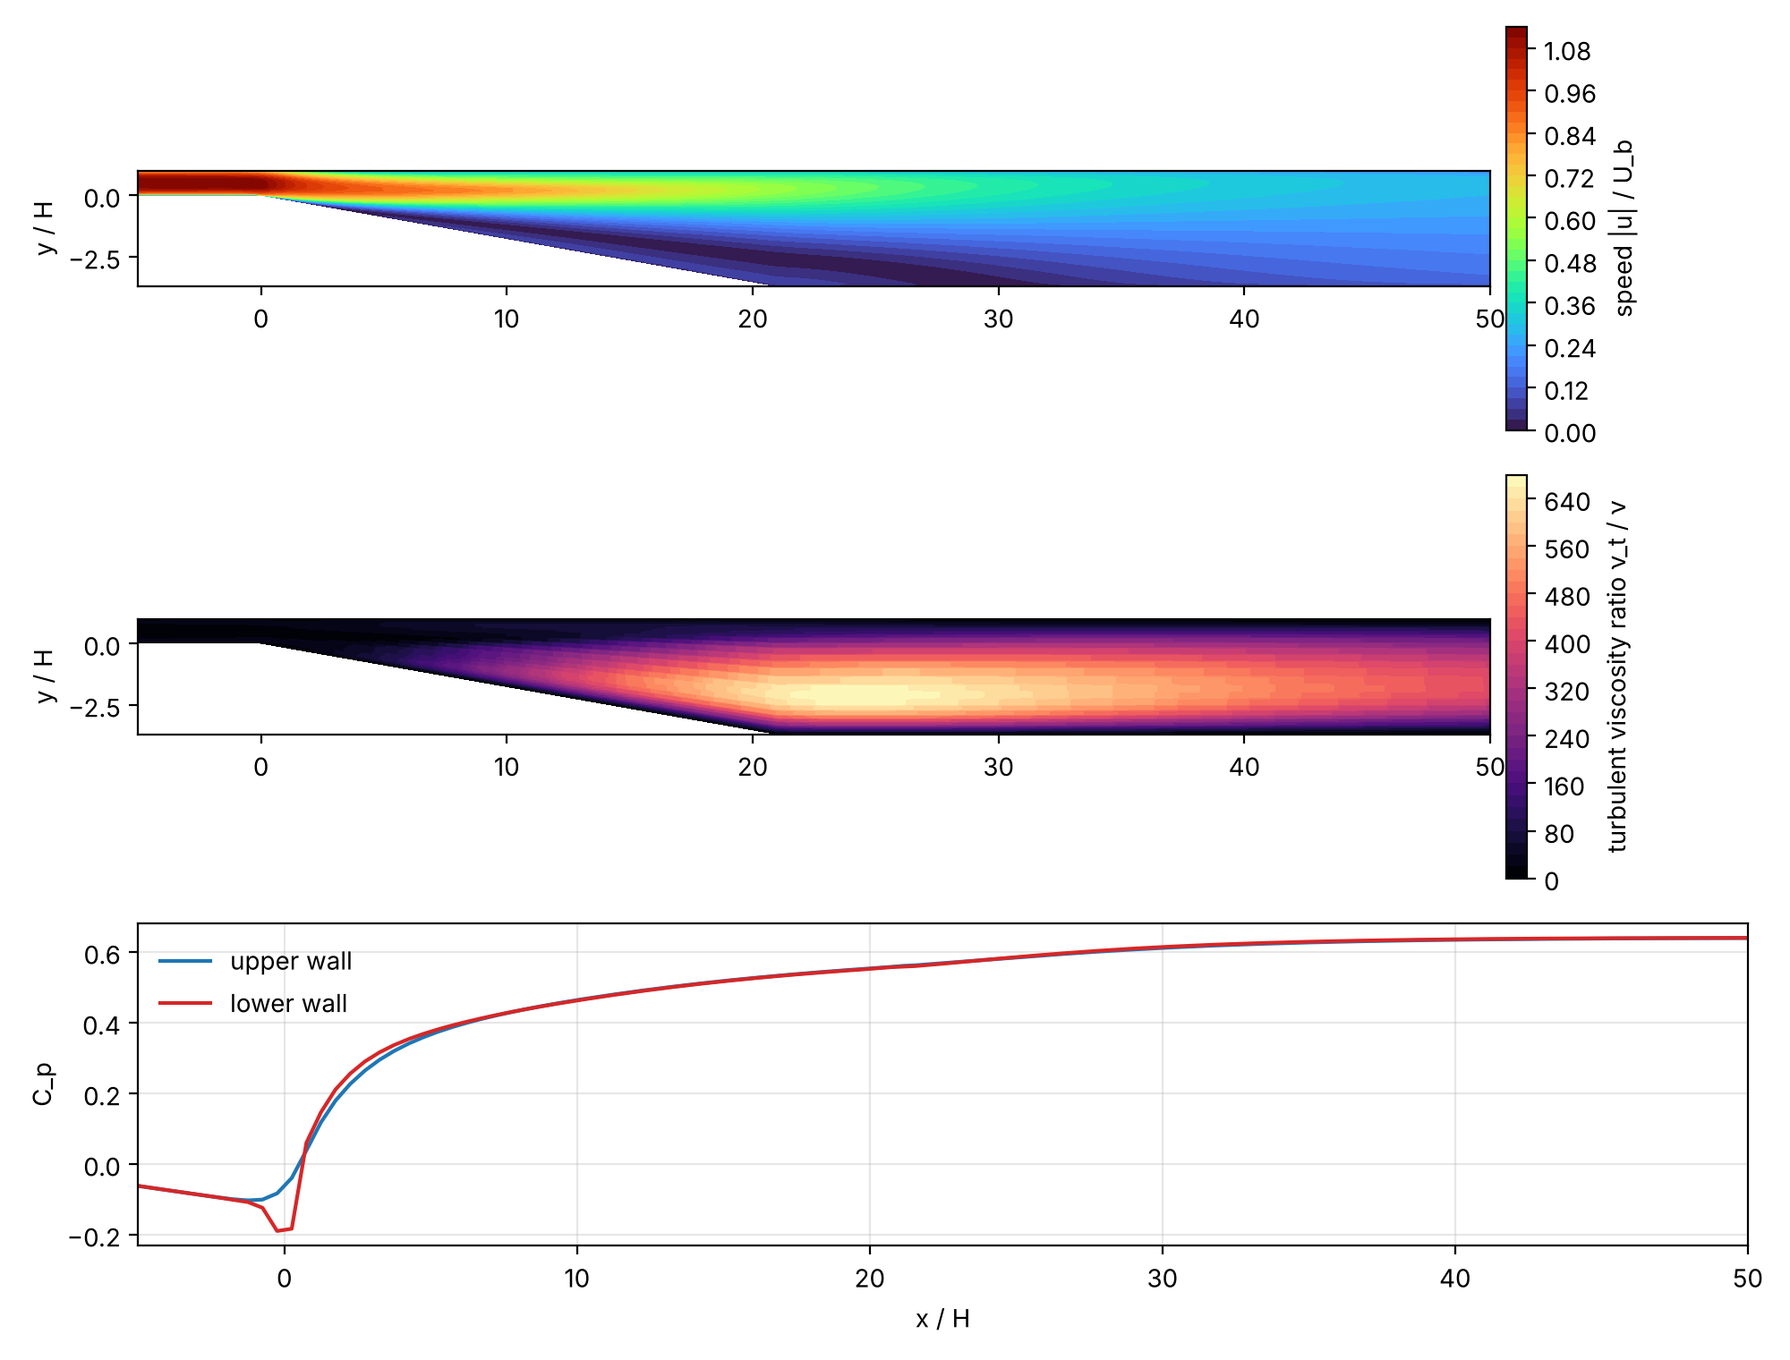
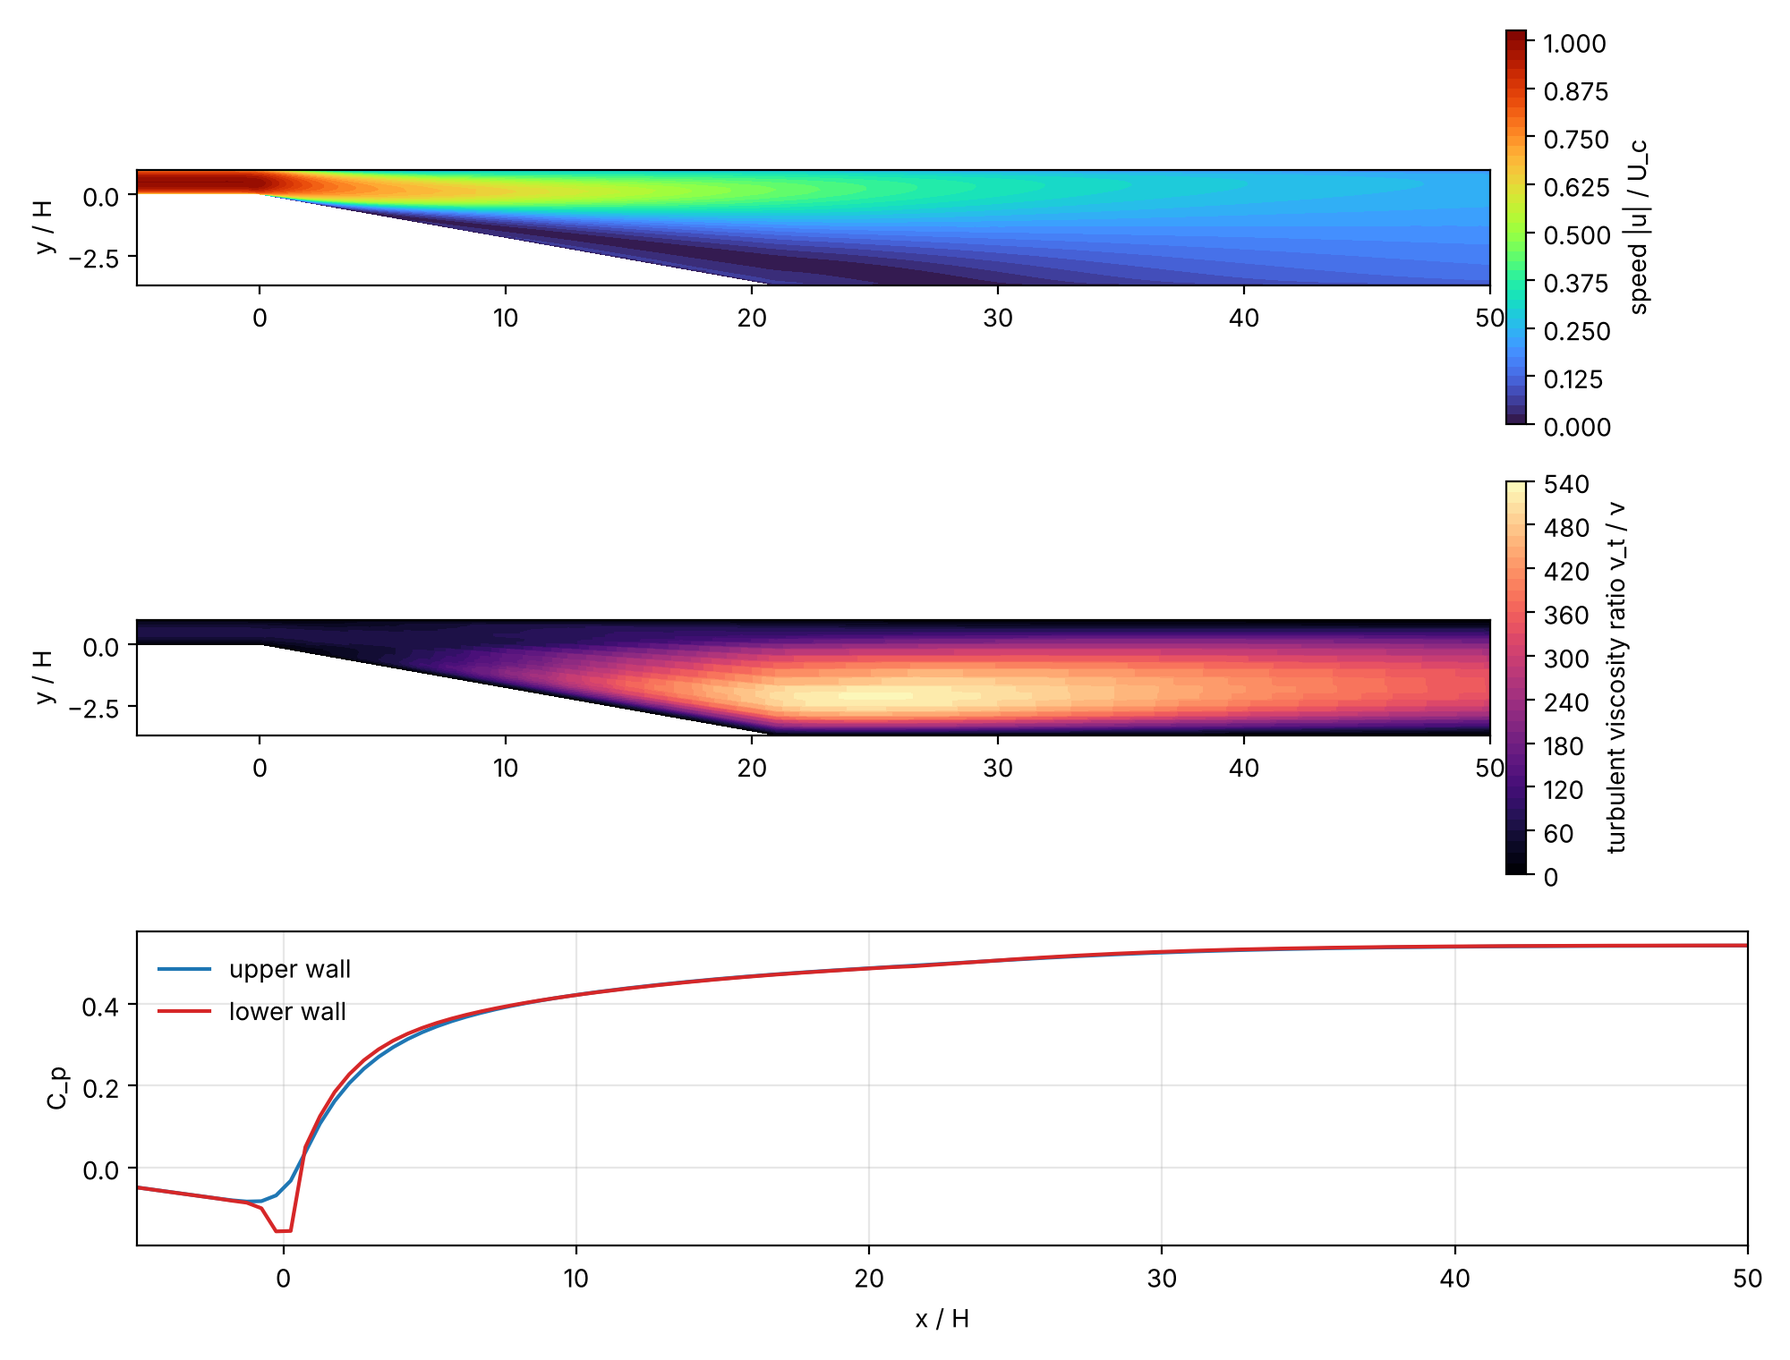
Feed the diffuser a developed channel profile at the inlet
Centreline Re_H 20 000 from a periodic SST channel run, table written by
examples/studies/diffuser_inlet_profile.py; docs, figures and gap text updated.

Claude-Session: https://claude.ai/code/session_012imjwoEKDoZjFYdMQwSt8T

diff --git a/examples/studies/diffuser_inlet_profile.py b/examples/studies/diffuser_inlet_profile.py
@@ -1,0 +1,59 @@
+#!/usr/bin/env python3
+"""Developed inlet profile of the diffuser case (D45, 7a).
+
+Runs the periodic channel `diffuser_channel_profile.toml` (SST, Re_H =
+U_c H / nu = 20 000 on the centreline velocity), reads the profile from
+the centre plane to the wall and writes the table `diffuser_inlet_profile.csv`
+(y, u_n, k, omega over the full height 0 to H, mirrored about the centre)
+that the inlet of `diffuser_sst.toml` reads.
+
+    python3 examples/studies/diffuser_inlet_profile.py [--set mass_flow=0.0893]
+
+The mass flow of the periodic pair sets the bulk velocity; 0.0893 m^2/s
+(U_b = 0.893 m/s) gives U_c = 1.000 m/s. Change it, and run this script
+again, if the viscosity or the model changes.
+"""
+
+from __future__ import annotations
+
+import subprocess
+import sys
+from pathlib import Path
+
+ROOT = Path(__file__).resolve().parents[2]
+sys.path.insert(0, str(ROOT / "python"))
+
+from foehncraft.profiles import inlet_table, write  # noqa: E402
+from foehncraft.results import read_csv  # noqa: E402
+
+CASE = ROOT / "examples/cases/flow/diffuser_channel_profile.toml"
+OUT = ROOT / "examples/cases/flow/diffuser_inlet_profile.csv"
+H = 1.0
+
+
+def main() -> int:
+    run = ROOT / "output/diffuser_channel_profile"
+    cmd = [str(ROOT / "target/release/foehn"), "flow", "--out", str(run), str(CASE)] + sys.argv[1:]
+    subprocess.run(cmd, check=False, stdout=subprocess.DEVNULL)
+    line = run / "line_profile.csv"
+    cols = read_csv(line)
+    u_c = float(cols["u"][0])
+    half = inlet_table(cols)
+    r, u, k, om = half["r"], half["u_n"], half["k"], half["omega"]
+    # mirror about the centre plane y = H/2: wall row first
+    # (a sample on the centre plane itself is taken once)
+    n0 = 1 if r[0] == 0.0 else 0
+    ys = [H / 2 - v for v in reversed(r)] + [H / 2 + v for v in r[n0:]]
+    table = {
+        "y": ys,
+        "u_n": list(reversed(u)) + u[n0:],
+        "k": list(reversed(k)) + k[n0:],
+        "omega": list(reversed(om)) + om[n0:],
+    }
+    write(table, OUT, header=f"developed channel profile, SST, U_c = {u_c:.4f} m/s, H = {H} m (diffuser_inlet_profile.py)")
+    print(f"{OUT.name}: {len(ys)} rows, centreline U_c = {u_c:.4f} m/s")
+    return 0
+
+
+if __name__ == "__main__":
+    sys.exit(main())

diff --git a/tools/plot/diffuser_chart.py b/tools/plot/diffuser_chart.py
@@ -48,6 +48,7 @@ def main(out: str, work: str = "/tmp/diffuser_chart") -> None:
     w.mkdir(parents=True, exist_ok=True)
     text = (ROOT / "examples/cases/flow/diffuser_sst.toml").read_text()
     text = text.replace('file = "../../meshes/diffuser_coarse.su2"', f'file = "{ROOT / "examples/meshes/diffuser_coarse.su2"}"')
+    text = text.replace('table = "diffuser_inlet_profile.csv"', f'table = "{ROOT / "examples/cases/flow/diffuser_inlet_profile.csv"}"')
     lines = ", ".join(
         f'{{ name = "s{i}", from = [{x}, {ylow(x) + 0.004}, 0.5], to = [{x}, 0.996, 0.5], points = 70 }}'
         for i, x in enumerate(stations()))
@@ -64,7 +65,7 @@ def main(out: str, work: str = "/tmp/diffuser_chart") -> None:
     cx, cy = xs[tri.triangles].mean(axis=1), ys[tri.triangles].mean(axis=1)
     tri.set_mask(cy < np.array([ylow(x) for x in cx]) - 1e-9)
     fig, axs = plt.subplots(3, 1, figsize=(10, 7.6), dpi=200, gridspec_kw={"height_ratios": [1, 1, 0.8]})
-    for ax, v, lab, cmap in [(axs[0], sp, "speed |u| / U_b", "turbo"), (axs[1], nt, "turbulent viscosity ratio ν_t / ν", "magma")]:
+    for ax, v, lab, cmap in [(axs[0], sp, "speed |u| / U_c", "turbo"), (axs[1], nt, "turbulent viscosity ratio ν_t / ν", "magma")]:
         t = ax.tricontourf(tri, v, levels=40, cmap=cmap)
         fig.colorbar(t, ax=ax, label=lab, pad=0.01)
         ax.set_aspect("equal"); ax.set_ylabel("y / H")

diff --git a/tools/plot/diffuser_geometry.py b/tools/plot/diffuser_geometry.py
@@ -47,12 +47,12 @@ def main(out):
     ax.text(-22, 0.5, "H = 1", ha="right", va="center")
     ax.annotate("", (ld + 52, -3.7), (ld + 52, 1), arrowprops=dict(arrowstyle="<->"))
     ax.text(ld + 53, -1.35, "4.7 H", va="center")
-    ax.text(-19.5, 1.3, "inlet: u = 1 m/s, Tu 5 %, ν_t/ν 10", va="bottom", fontsize=8)
+    ax.text(-19.5, 1.3, "inlet: developed channel profile (U_c = 1 m/s)", va="bottom", fontsize=8)
     ax.text(ld + 50, 1.3, "outlet: static p = 0", ha="right", va="bottom", fontsize=8)
     ax.text(30, 1.3, "upper wall (no slip, y = 1)", ha="center", va="bottom", fontsize=8)
     ax.text(18, -2.2, "lower wall (no slip)", ha="center", fontsize=8, rotation=-10)
     ax.set_xlim(-26, ld + 62); ax.set_ylim(-6, 3.4); ax.set_aspect("auto")
-    ax.set_title("Geometry (units of H; Re_H = U_b H/ν = 20 000, ν = 5e-5 m²/s; z: symmetry planes)")
+    ax.set_title("Geometry (units of H; Re_H = U_c H/ν = 20 000, ν = 5e-5 m²/s; z: symmetry planes)")
     for a, (x0, x1, y0, y1, ttl) in zip(axs[1:], [(-3, 12, -2.6, 1.4, "Mesh at the start of the diffuser"),
                                               (-0.6, 0.6, -0.12, 1.05, "Inlet-duct cross-section and wall clustering at x = 0 (zoom)")]):
         segs = []

diff --git a/examples/studies/diffuser_gci.py b/examples/studies/diffuser_gci.py
@@ -8,7 +8,7 @@ comparison with the published measurements of Buice & Eaton is pending.
 
     python3 examples/studies/diffuser_gci.py [OUT] [--levels 0,1,2] [--jobs 3] [--report-only]
 
-C_p(x) = (p(x) - p_ref) / (1/2 rho U_b^2) on the upper wall with p_ref the
+C_p(x) = (p(x) - p_ref) / (1/2 rho U_c^2) on the upper wall with p_ref the
 wall pressure at x = -10 H, taken at x = 21 H (end of the diffuser) and
 x = 45 H (in the outlet duct). The levels run at the same time (--jobs).
 Needs the `foehn` executable (FOEHN=target/release/foehn by default).

diff --git a/tools/check/ci_cases.py b/tools/check/ci_cases.py
@@ -34,7 +34,7 @@ FLOW = {
         "pipe_gmsh_raw", "channel_heated", "channel_sst", "channel_keps", "channel_zeta_f",
         "channel_zeta_f0", "cavity_re1000_coupled", "channel_heated_keps", "channel_heated_pr0025",
         "channel_eb", "channel_rotating_sst", "square_duct_qcr", "pipe_turbulent_sst",
-        "tjunction_mixing", "diffuser_sst",
+        "tjunction_mixing", "diffuser_sst", "diffuser_channel_profile",
     ],
     "linux-2": [
         "cylinder_re20", "cavity_re1000", "taylor_green_cfl10", "poiseuille_tet",

diff --git a/docs/gallery/turbulence.md b/docs/gallery/turbulence.md
@@ -1078,25 +1078,30 @@ python3 -m tools.plot.pipe_chart docs/figures/gallery/pipe_turbulent.png output/
 <a id="diffuser"></a>
 ## 199. Asymmetric plane diffuser: separation on one wall, and a grid study that does not converge
 
-<img src="../figures/gallery/diffuser_sst.png" alt="Turbulent flow through an asymmetric plane diffuser, k-omega SST, coarse mesh. Top: speed, a fast jet along the straight upper wall and a slow, separated region along the lower wall that opens at 10 degrees. Middle: turbulent viscosity ratio, large in the separated shear layer behind the diffuser. Bottom: pressure coefficient along the upper and the lower wall, rising to about 0.64 behind the diffuser" width="2000" height="1520">
+<img src="../figures/gallery/diffuser_sst.png" alt="Turbulent flow through an asymmetric plane diffuser, k-omega SST, coarse mesh. Top: speed, a fast jet along the straight upper wall and a slow, separated region along the lower wall that opens at 10 degrees. Middle: turbulent viscosity ratio, large in the separated shear layer behind the diffuser. Bottom: pressure coefficient along the upper and the lower wall, rising to about 0.54 behind the diffuser" width="2000" height="1520">
 
 The third general-purpose internal flow of D45 (stage 8): a channel of
 height H whose lower wall opens at 10° to an area ratio of 4.7
 (Buice & Eaton 1995; the diffuser is 20.99 H long), then a straight outlet
 duct. The lengths of the ducts (inlet 20 H, outlet 50 H) are our choice:
-the open 1995 brief does not give them legibly. U_b = 1 m/s,
-ν = 5·10⁻⁵ m²/s (Re_H = 20 000, inside the range 10 000 to 30 000 of the
-experiment), uniform inlet velocity with 5 % intensity, so the flow
-develops in the inlet duct; the experiment has a fully developed
-channel flow at the inlet. k-ω SST with the low-Re treatment, structured
+the open 1995 brief does not give them legibly. The Reynolds number is
+Re_H = U_c H/ν = 20 000 with the **centreline velocity** U_c = 1 m/s of
+the inlet profile, H = 1 m and ν = 5·10⁻⁵ m²/s (inside the range 10 000
+to 30 000 of the experiment; the bulk velocity is U_b = 0.893 m/s, so
+Re_b = 17 900). The inlet takes the **developed profile of a periodic
+channel run** (`diffuser_channel_profile.toml`, SST, velocity, k and ω
+written to `diffuser_inlet_profile.csv` by
+`examples/studies/diffuser_inlet_profile.py`), as the experiment has a
+fully developed channel flow at the inlet; the inlet duct of 20 H keeps it
+developed. C_p uses U_c. k-ω SST with the low-Re treatment, structured
 quadrilaterals (`examples/meshes/diffuser.py`, tanh grading, first-cell y⁺
 0.1 to 2.2, mean 0.85 and 1.3 at the two walls).
 
-On the coarse mesh (5 280 cells) the steady run converges in about 1 640
-iterations (35 s, relaxation 0.5; the default 0.7 diverges): the flow
-separates on the lower wall at x = 0.73 H, early in the diffuser, and
-reattaches at x = 30.7 H, 9.7 H behind its end; the pressure
-coefficient reaches C_p = 0.64 (C_p = (p − p(−10 H)) / ½ρU_b²).
+On the coarse mesh (5 280 cells) the steady run converges in about 1 600
+iterations (40 s, relaxation 0.5; the default 0.7 diverges): the flow
+separates on the lower wall at x = 2.3 H, early in the diffuser, and
+reattaches at x = 29.3 H, 8.3 H behind its end; the pressure
+coefficient reaches C_p = 0.54 (C_p = (p − p(−10 H)) / ½ρU_c²).
 
 **Findings, as run (no grid-convergence study).**
 
@@ -1105,7 +1110,10 @@ coefficient reaches C_p = 0.64 (C_p = (p − p(−10 H)) / ½ρU_b²).
   (momentum 4·10⁻⁴ at 3 000 iterations, k rising), on 84 480 cells the
   run at the default setting diverges in 7 iterations, and the coupled
   solver reaches its limit of 2 500 iterations on 21 120 cells with a
-  reattachment at 21.5 H instead of 30.7 H. The solution depends on the
+  reattachment at 21.5 H instead of 30.7 H (uniform inlet). The developed
+  inlet profile does not change this: on 21 120 cells it stalls again at
+  3 000 iterations (momentum residual 4·10⁻⁴, reattachment 27 H), and on
+  84 480 cells it diverges in 6 iterations. The solution depends on the
   mesh and on where the run stops, so no GCI is quoted. The cause (an
   unsteady separation that the steady SST model cannot settle, or a
   setting of ours) is not found; a transient run is the next test.
@@ -1118,7 +1126,7 @@ coefficient reaches C_p = 0.64 (C_p = (p − p(−10 H)) / ½ρU_b²).
 | | |
 |---|---|
 | Code | no new code: SU2 reader, SST low-Re (D130), wall crossings (6g) |
-| Case file | `flow/diffuser_sst.toml` (mesh `meshes/diffuser_coarse.su2`) |
+| Case file | `flow/diffuser_sst.toml` (mesh `meshes/diffuser_coarse.su2`), `flow/diffuser_channel_profile.toml` (inlet table) |
 | Study | `examples/studies/diffuser_gci.py` (levels 0 to 2; it reports the unconverged levels with a star); figure `tools/plot/diffuser_chart.py` |
 | Recipe | [199](../recipes/turbulence.md#diffuser) |
 

diff --git a/docs/cases/flow.md b/docs/cases/flow.md
@@ -82,7 +82,8 @@ Couette and Poiseuille flow, the lid-driven cavity and the steady cylinder.
 | `flow/cylinder_potential.toml` | built-in cylinder mesh, refine 1: 24 576 hexahedra | the potential-flow start (D52) around the cylinder, written without outer iterations | [gallery 20](../gallery/flow.md#time-control), [recipe 28](../recipes/flow.md#time-control) |
 | `flow/cylinder_re20_gci.toml` | built-in cylinder mesh, refine 0 to 2: 6 144 to 98 304 hexahedra (3 levels) | the benchmark 2D-1 on three meshes: observed order, extrapolated value and grid convergence index of C_D, C_L and Δp (D67); every mesh within 8 % of the reference ranges; coupled algorithm, 51 to 225 outer iterations (about a minute, in the `long` set) | [gallery 25](../gallery/verification.md#gci), [recipe 34](../recipes/verification.md#gci) |
 | `flow/tjunction_mixing.toml` | Gmsh tetrahedra of `meshes/tjunction_gci.geo` (h = 0.0126 m, 4 852 polyhedra; the study adds 16 665 and 44 738) converted into polyhedra | laminar T-junction (Re 200 main pipe, 100 branch) with a passive scalar from the branch; three meshes with GCI: inlet pressure of the main pipe order 1.77, GCI 2.4 %; validation against published measurements pending | [gallery 196](../gallery/flow.md#tjunction-mixing), [recipe 196](../recipes/flow.md#tjunction-mixing) |
-| `flow/diffuser_sst.toml` | structured quadrilaterals from `meshes/diffuser.py` (SU2, level 0: 5 280 cells, graded to y⁺ about 1 at both walls) | the asymmetric plane diffuser of Buice & Eaton (10°, area ratio 4.7) at Re_H 20 000 with k-ω SST `low-re`: steady solution with separation at x = 0.73 H and reattachment at 30.7 H, pressure recovery C_p 0.64 behind the diffuser; the finer meshes do not converge and no measured value is used yet | [gallery 199](../gallery/turbulence.md#diffuser), [recipe 199](../recipes/turbulence.md#diffuser) |
+| `flow/diffuser_channel_profile.toml` | generated hex 2D, 2 × 96 cells, graded towards both walls (ratio 60), periodic in x | the periodic SST channel at centreline Re_H 20 000 (U_c = 1 m/s, U_b = 0.893 m/s) that gives the developed inlet table `diffuser_inlet_profile.csv` of the diffuser; `examples/studies/diffuser_inlet_profile.py` runs it and writes the table | [gallery 199](../gallery/turbulence.md#diffuser) |
+| `flow/diffuser_sst.toml` | structured quadrilaterals from `meshes/diffuser.py` (SU2, level 0: 5 280 cells, graded to y⁺ about 1 at both walls) | the asymmetric plane diffuser of Buice & Eaton (10°, area ratio 4.7) at Re_H 20 000 with k-ω SST `low-re`: steady solution with developed channel-profile inlet (`diffuser_channel_profile.toml`, centreline Re_H 20 000): steady solution with separation at x = 2.3 H and reattachment at 29.3 H, pressure recovery C_p 0.54 behind the diffuser; the finer meshes do not converge and no measured value is used yet | [gallery 199](../gallery/turbulence.md#diffuser), [recipe 199](../recipes/turbulence.md#diffuser) |
 | `flow/pipe_gmsh_raw.toml` | Gmsh tetrahedra without optimisation (`examples/meshes/pipe_gmsh_raw.msh`), 1 572 cells, 28 faces with a skewness above 0.9 | developing pipe flow at Re = 100 on a poor mesh: the cell-quality remediation (D50) switches to the Gauss pressure gradient and the limiter, reports it and converges; with `--set solver.remediation=off` the run diverges with a report that names the skewed faces | [gallery 26](../gallery/meshes.md#skewed-tets), [recipe 36](../recipes/meshes.md#skewed-tets) |
 
 ## Transient flow

diff --git a/docs/verification/status.md b/docs/verification/status.md
@@ -621,7 +621,8 @@ Gaps:
 - reference-data: [`tmr_plate_sst`](../../examples/cases/flow/tmr_plate_sst.toml): flat plate: C_f(0.97) +1.45 % from the Coles–Fernholz fit, GCI 1.76 % ([results](stage6.md#tmr-flat-plate-re_l--510⁶))
 - reference-data: [`channel_sst`](../../examples/cases/flow/channel_sst.toml): channel at Re_τ 395: U_b⁺ −1.3 % from the DNS of Moser, Kim & Mansour (1999) ([results](stage6.md#channel-re_τ--395))
 - reference-data: [`pipe_turbulent_sst`](../../examples/cases/flow/pipe_turbulent_sst.toml): pipe at Re_b 5300: u_τ/U_b +4.5 % from the DNS of El Khoury et al. (2013), GCI 0.2 % (band ±6 %) (passes in CI (set linux-1), not yet in the manual)
-- consistency: [`diffuser_sst`](../../examples/cases/flow/diffuser_sst.toml): asymmetric diffuser, coarse mesh: steady solution with separation at 0.73 H and reattachment at 30.7 H (passes in CI (set linux-1), not yet in the manual)
+- consistency: [`diffuser_sst`](../../examples/cases/flow/diffuser_sst.toml): asymmetric diffuser, coarse mesh: steady solution with separation at 2.3 H and reattachment at 29.3 H, developed channel-profile inlet (passes in CI (set linux-1), not yet in the manual)
+- consistency: [`diffuser_channel_profile`](../../examples/cases/flow/diffuser_channel_profile.toml): periodic channel at centreline Re 20 000: centreline velocity 1.000 m/s, the developed inlet table of the diffuser (passes in CI (set linux-1), not yet in the manual)
 - reference-data: [`backstep_outlet_backflow`](../../examples/cases/flow/backstep_outlet_backflow.toml): backward-facing step with the outlet inside the recirculation
 - reference-data: recorded run (level sweep of backstep_validation with SST, 3 meshes): step of Driver & Seegmiller (1985): x_r/H 6.747, +7.8 % (band ±10 %) ([results](stage6.md#backward-facing-step-against-the-experiment-part-6g-95))
 - consistency: [`sst_results_are_bitwise_equal_on_1_and_4_threads`](../../crates/foehncraft-flow/tests/turbulence.rs): bitwise equal on 1 and 4 threads

diff --git a/changelog.d/199-diffuser-sst.md b/changelog.d/199-diffuser-sst.md
@@ -1,8 +1,10 @@
 - **Asymmetric plane diffuser (D45).** New case `diffuser_sst.toml`: the
-  diffuser of Buice & Eaton (10°, area ratio 4.7) at Re_H 20 000 with k-ω SST
+  diffuser of Buice & Eaton (10°, area ratio 4.7) at Re_H 20 000 (centreline velocity) with k-ω SST and a developed
+  channel profile at the inlet (new case `diffuser_channel_profile.toml`,
+  table by `examples/studies/diffuser_inlet_profile.py`)
   on a structured mesh from `examples/meshes/diffuser.py`. The coarse mesh
-  (5 280 cells) gives a steady solution with separation at 0.73 H and
-  reattachment at 30.7 H; the finer meshes (21 120 and 84 480 cells) do not
+  (5 280 cells) gives a steady solution with separation at 2.3 H and
+  reattachment at 29.3 H; the finer meshes (21 120 and 84 480 cells) do not
   reach a steady state with the steady solvers, so there is no grid-convergence
   result, written as a gap. No comparison with measurements yet (pending).
   Gallery and recipe 199.

diff --git a/docs/recipes/turbulence.md b/docs/recipes/turbulence.md
@@ -770,6 +770,11 @@ judge convergence by u_τ, not by the residual alone.
 <a id="diffuser"></a>
 ## 199. Run an asymmetric diffuser and find the separation
 
+The inlet is a developed channel profile: the periodic channel
+`diffuser_channel_profile.toml` (bulk velocity set so that the centreline
+velocity is 1 m/s, Re_H = U_c H/ν = 20 000) gives the table
+`diffuser_inlet_profile.csv` (`python3 examples/studies/diffuser_inlet_profile.py`;
+change the mass flow of the periodic pair if the viscosity changes).
 Make the structured mesh at a level (every level halves all intervals) and
 run with a relaxation of 0.5 (0.7 diverges):
 

diff --git a/docs/pitfalls.md b/docs/pitfalls.md
@@ -126,7 +126,8 @@ The steady SST case of gallery 199 (Re_H 20 000) converges on 5 280 cells
 (relaxation 0.5) and not on 21 120 or 84 480 (2026-11-22): SIMPLEC at
 relaxation 0.3 and 0.5 stalls, the default 0.7 diverges, and the coupled
 solver does not converge in 2 500 iterations and moves the reattachment
-from 30.7 H to 21.5 H. Do not run a grid study with the steady solver on
+from 30.7 H to 21.5 H; a developed channel profile at the inlet does not
+change it (2026-11-22). Do not run a grid study with the steady solver on
 this case; try a transient run first.
 
 ## Observers must not change the run
